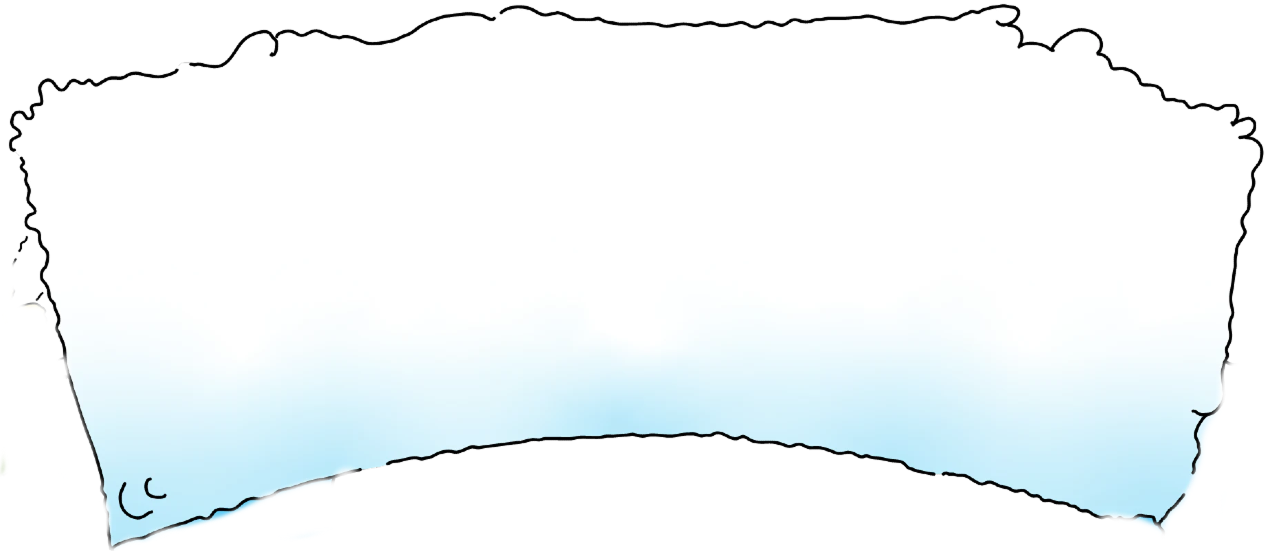
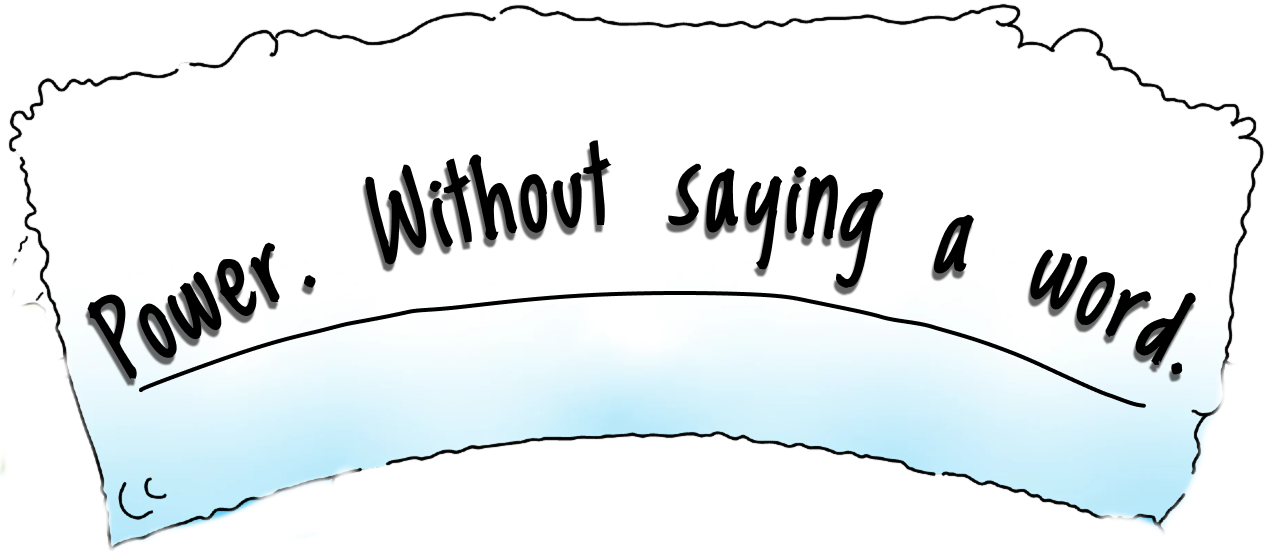
update hero

diff --git a/index.html b/index.html
@@ -35,12 +35,12 @@
   <body>
 
     <!-- loading -->
-     <div id="loading" class="fixed h-full w-full left-0 top-0 z-[99999] bg-white flex_center">
+     <!-- <div id="loading" class="fixed h-full w-full left-0 top-0 z-[99999] bg-white flex_center">
       <video id="loadingVideo" class="w-full xl:h-full xl:w-auto object-cover" autoplay muted playsinline>
         <source src="./assets/video/loading.mp4" type="video/mp4" />
         Your browser does not support the video tag.
      </video>
-     </div>
+     </div> -->
     
     <!-- container page -->
     <main
@@ -172,29 +172,19 @@
            <h4 class="mediumStroke text-[18vw]  lg:text-[10vw] float_animation">$SMIRK</h4>
          
         </div>
-        
-         <p class="text-center top-[37%] absolute mediumStroke my-2 max-[400px]:text-[9vw] text-[6vw] lg:text-[5vw] tracking-widest lg:tracking-[.5vw]"
-             
-            data-aos="fade-up"
-            data-aos-duration="900"
-            data-aos-delay="300"
-            >
-          <span class="opacity-30 boldShadow">Power. Without saying a word.</span>
-          </p> 
          
-
         <!-- image -->
-         <div class="images z-30 w-full h-auto relative flex_center flex-col max-lg:mt-[10rem]">
+         <div class="images z-30 w-full h-auto relative flex_center flex-col max-lg:mt-[6rem]">
 
           <div class="flex_center w-full">
             <img src="./assets/images/characterHero1.png" alt="characterHero" class="w-[50%] md:w-[30%] lg:w-[28%] h-auto shake_animation">
           </div>
           
-          <img src="./assets/images/bgHero-character.png" alt="bg hero" class="w-full md:w-[50%] h-auto relative mt-[-50px]">
+          <img src="./assets/images/bgHero-character2.png" alt="bg hero" class="w-full md:w-[50%] h-auto relative mt-[-20px]">
          </div>
 
          <!-- rotate -->
-        <div class="bg-rotate absolute top-[0%] w-[1000px] lg:w-[50vw] max-w-[2200px] aspect-square flex_center">
+        <div class="bg-rotate absolute top-[20%] lg:top-[0%] w-[500px] lg:w-[50vw] max-w-[2200px] aspect-square flex_center">
           <img src="./assets/images/rotate-img.svg" alt="rotate icon" class="w-full rotate_animation">
         </div>
 
@@ -273,7 +263,7 @@
  
       </section>
  
-      <section id="launch" class="launch flex items-center flex-col gap-7 mt-[80px]">
+      <section id="launch" class="launch flex items-center flex-col gap-7">
      
         <div
           class="avenir_font relative w-auto h-auto py-[40px] lg:py-[60px] px-[30px] lg:px-[5vw] pt-[3vw] lg:pt-[1vw]"
@@ -288,13 +278,13 @@
           </h2>
         </div>
 
-        <canvas id="canvas" width="800" height="400" class="absolute w-full h-[400px] left-0 top-[-10%] md:top-[-25%] xl:top-[-20px] " 
+        <canvas id="canvas" width="800" height="400" class="absolute w-full h-[400px] left-0 top-[-20%] md:top-[-25%] xl:top-[-20px] " 
           data-aos="zoom-in"
           data-aos-duration="1200"
           data-aos-delay="400"></canvas>
 
         <div class="launch-section">
-          <h2 class="avenir_font text-center text-[30px] xl:text-[2vw]" 
+          <h2 class="avenir_font text-center text-[20px] xl:text-[2vw]" 
           data-aos="fade-up"
           data-aos-duration="900"
           data-aos-delay="100"> Launch: Friday 9 PM UTC on <a href="https://pump.fun/board" target="_blank" class="underline text-blue-500">Pump.fun</a></h2>

diff --git a/assets/js/index.js b/assets/js/index.js
@@ -1,17 +1,17 @@
-const loadingVideo = document.getElementById('loadingVideo');
-document.body.classList.add('loading');
-const loading = document.getElementById('loading');
+// const loadingVideo = document.getElementById('loadingVideo');
+// document.body.classList.add('loading');
+// const loading = document.getElementById('loading');
 
-loadingVideo.playbackRate = 2.5;
-loadingVideo.addEventListener('ended', () => {
-  loading.style.display = 'none';
-  document.body.classList.remove('loading');  
+// loadingVideo.playbackRate = 2.5;
+// loadingVideo.addEventListener('ended', () => {
+//   loading.style.display = 'none';
+//   document.body.classList.remove('loading');  
+
+//   AOS.init({ once: true });
+// });
+
 
   AOS.init({ once: true });
-});
-
-
-  // AOS.init({ once: true });
  
  
 // menu-button
